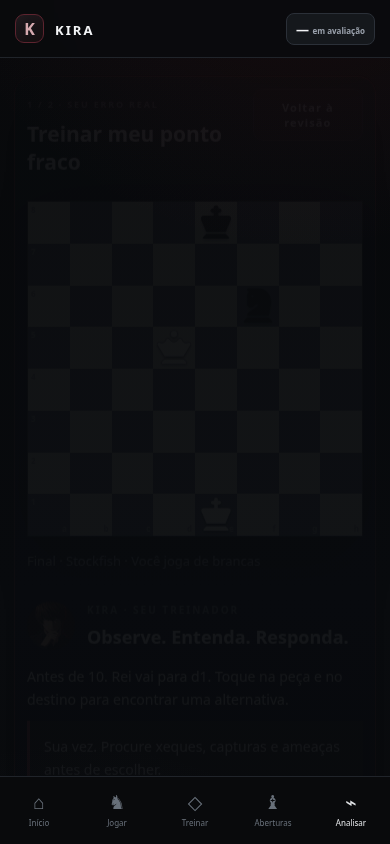
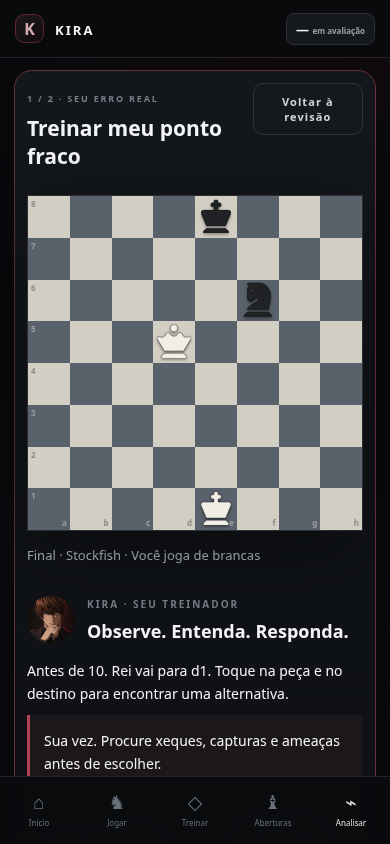
Registra capturas após concluir a animação de entrada

diff --git a/tests/browser.test.js b/tests/browser.test.js
@@ -14,7 +14,10 @@ fs.mkdirSync(output,{recursive:true});
   const errors=[]; page.on('pageerror',e=>errors.push(e.message));
   const readProfile=()=>page.evaluate(key=>JSON.parse(localStorage.getItem(key)),profileKey);
   const nav=async(name)=>page.locator(`[data-view="${name}"]:visible`).first().click();
-  const shot=async(name)=>page.screenshot({path:`${output}/${name}.png`});
+  const shot=async(name)=>{
+    await page.locator('.active-view').evaluate(async e=>{await Promise.all(e.getAnimations().map(a=>a.finished.catch(()=>{})));});
+    await page.screenshot({path:`${output}/${name}.png`});
+  };
   async function imported(name, side) {
     await nav('analyze');
     if(await page.locator('#weaknessPractice').isVisible())await page.locator('#closeWeakness').click();
